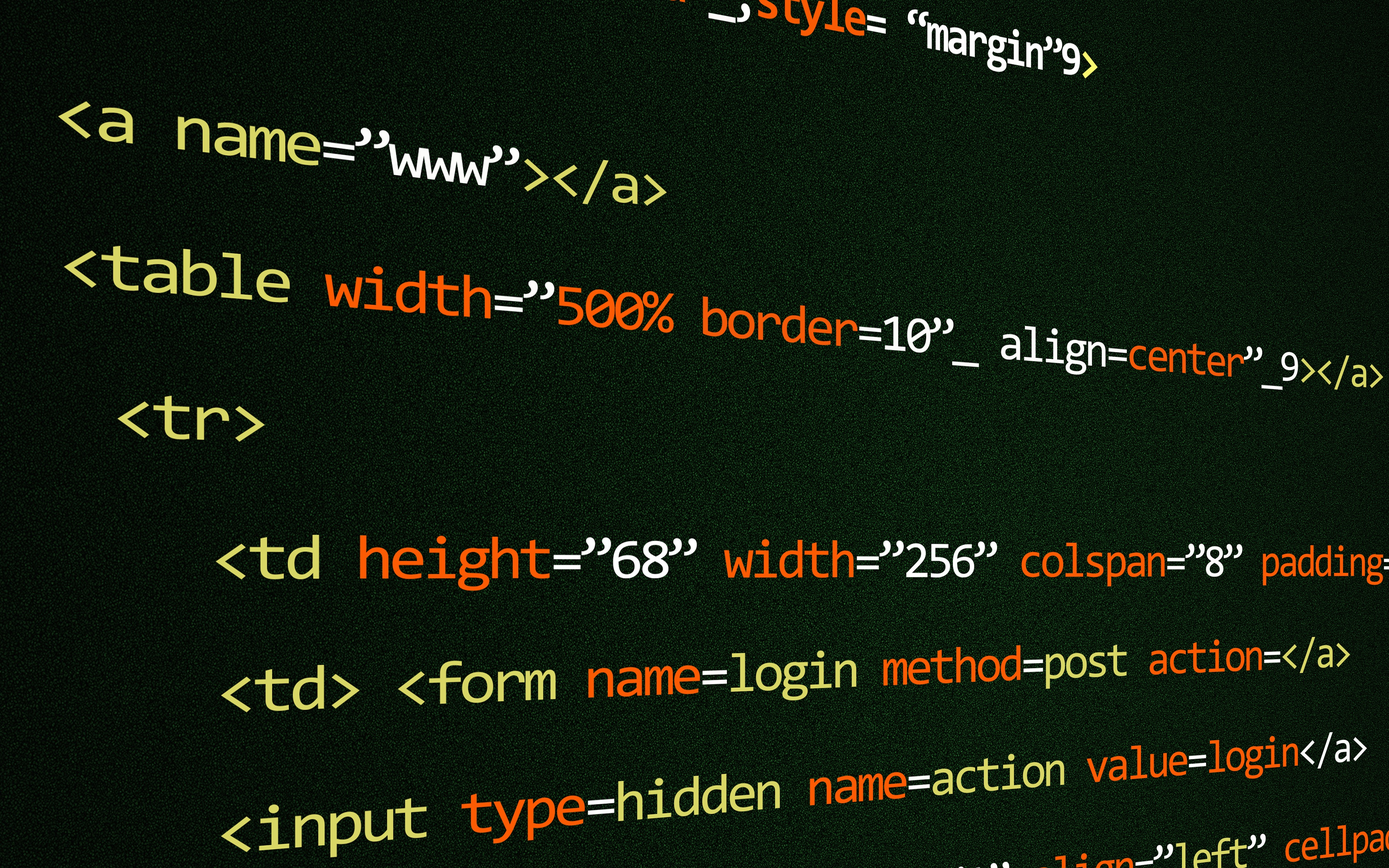
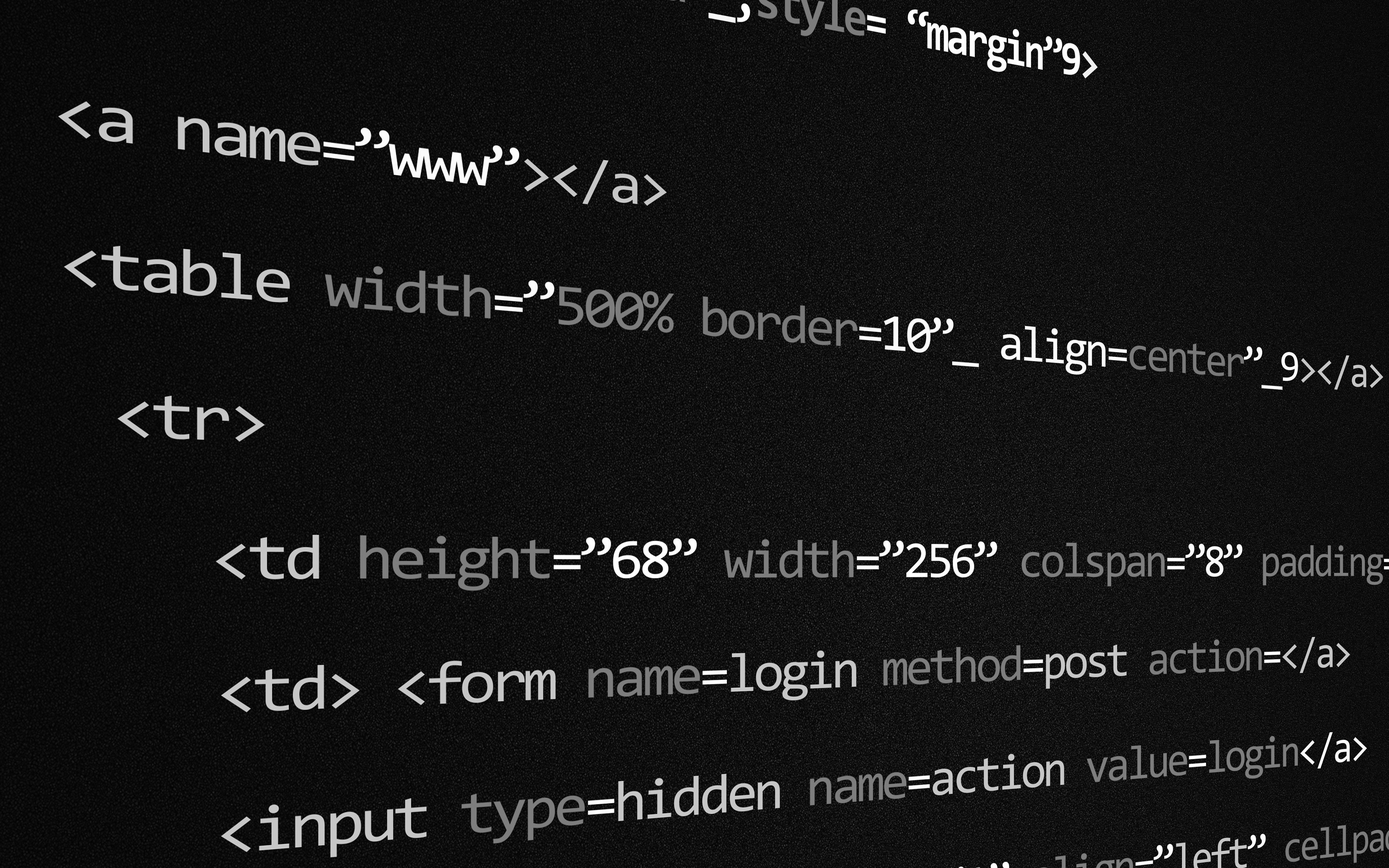
update

diff --git a/public/themes/default/assets/js/home.js b/public/themes/default/assets/js/home.js
@@ -1,44 +1,61 @@
 $(document).ready(function(){
+    var counter = 0;
+//tooltip
+    $('[data-toggle="tooltip"]').tooltip();
+//wowjs
     new WOW().init();
+//slick
     $('.project-img-modal').slick();
+//progress bar color
     $(function() {
         $(".prg-color").addClass("progress-bar-black");
     });
+//progress bar animation
 
-    increment_prg(".prg1");
-    increment_prg(".prg2");
-    increment_prg(".prg3");
-    increment_prg(".prg4");
-    increment_prg(".prg5");
-    increment_prg(".prg6");
-    increment_prg(".prg7");
-    increment_prg(".prg8");
 
-    animate(".prg1","85%");
-    animate(".prg2","86%");
-    animate(".prg3","84%");
-    animate(".prg4","75%");
-    animate(".prg5","64%");
-    animate(".prg6","64%");
-    animate(".prg7","65%");
-    animate(".prg8","89%");
+    $('.progress-bar-container').hide()
+    $(".show-skills").click(function(){
+        var test = $(this).find("a").attr("data-id");
+        if ($(this).offset().top = 1000) {
+            if(counter == 0){
+            counter = 1;
+            $('.skills-bulb').fadeOut();
+            increment_prg(".prg1");
+            increment_prg(".prg2");
+            increment_prg(".prg3");
+            increment_prg(".prg4");
+            increment_prg(".prg5");
+            increment_prg(".prg6");
+            increment_prg(".prg7");
+            increment_prg(".prg8");
 
-    function increment_prg(s){
-        var timer = setTimeout(function(){
-            increment_prg(s)
-    }, 30);
-    $(s).text(parseInt($(s).text())+1 +'%');
-    if($(s).text() == $(s).data('per')+'%'){
-            clearTimeout(timer);
+            animate(".prg1","85%");
+            animate(".prg2","86%");
+            animate(".prg3","84%");
+            animate(".prg4","75%");
+            animate(".prg5","64%");
+            animate(".prg6","64%");
+            animate(".prg7","65%");
+            animate(".prg8","89%");
+            function animate(p,r){
+                $(p).animate({
+                    width: r
+                }, 2000);
+            };
+                $('.progress-bar-container').fadeIn();
+                function increment_prg(s){
+                    var timer = setTimeout(function(){
+                        increment_prg(s)
+                    }, 30);
+                    $(s).text(parseInt($(s).text())+1 +'%');
+                    if($(s).text() == $(s).data('per')+'%'){
+                        clearTimeout(timer);
+                    }
+                }
+            }
         }
-    };
-
-    function animate(p,r){
-        $(p).animate({
-            width: r
-        }, 2000);
-    };
-
+    });
+//nav bar
     $(".navbar ul li").click(function(){
         var test = $(this).find("a").attr("data-id");
         $('html, body').animate({
@@ -48,4 +65,18 @@ $(document).ready(function(){
         $(".navbar ul li").removeClass();
         $(this).addClass("active");
     });
+//scroll top button
+    $('.scroll-top').hide()
+    $(window).scroll(function() {
+        if ($(this).scrollTop() > 400) {
+            $('.scroll-top').fadeIn();
+        } else {
+            $('.scroll-top').fadeOut();
+        }
+    });
+    $("a[href='#page-top']").click(function() {
+        $("html, body").animate({ scrollTop: 0 }, "slow");
+        return false;
+    });
+
 });

diff --git a/public/themes/default/assets/css/portfolio.css b/public/themes/default/assets/css/portfolio.css
@@ -63,26 +63,6 @@ a {
     from, to { border-color: transparent }
     30% { border-color: #f5f5f5; }
 }
-/*.typewriter h4 {*/
-    /*overflow: hidden; *//* Ensures the content is not revealed until the animation */
-    /*border-right: .05em solid #f5f5f5; *//* The typwriter cursor */
-    /*white-space: nowrap; *//* Keeps the content on a single line */
-    /*margin: 0 auto; *//* Gives that scrolling effect as the typing happens */
-    /*letter-spacing: 1px; *//* Adjust as needed */
-    /*animation:*/
-        /*typingh4 5s steps(30) 2s 1 normal both,*/
-        /*blink-careth4 500ms steps(44) infinite normal;*/
-/*}*/
-/* The typing effect */
-/*@keyframes typingh4 {*/
-    /*from { width: 0 }*/
-    /*to { width: 50% }*/
-/*}*/
-/* The typewriter cursor effect */
-/*@keyframes blink-careth4 {*/
-    /*from, to { border-color: transparent }*/
-    /*30% { border-color: #f5f5f5; }*/
-/*}*/
 .home-text p{
     font-size: 150px;
     margin: 0 auto;
@@ -105,10 +85,13 @@ a {
     left: 0;
     z-index: 999 !important;
 }
+.navbar-brand {
+    color: #EEEEEE !important;
+}
 .navbar-default .nav li a {
     font-size: 14px;
     font-weight: 800;
-    color: #d7ebf6;
+    color: #EEEEEE;
     transition: all 0.2s ease-in;
 }
 .navbar-default .nav li a:hover {
@@ -161,7 +144,7 @@ a {
     color: white;
 }
 .skills-blur {
-    background-image: url(../img/code.jpeg);
+    background-image: url(../../../../img/code.jpeg);
     background-repeat: no-repeat;
     background-size: 100% 100%;
     filter: blur(3px);
@@ -172,7 +155,7 @@ a {
 }
 #skills .img-overlay {
     position: absolute;
-    background: rgba(0, 0, 0, 0.75);
+    background: rgba(0, 0, 0, 0.60);
     top: 0;
     left: 0;
     width: 100%;
@@ -214,6 +197,28 @@ a {
     line-height: 12px !important;
     font-size: 10px !important;
 }
+.skills-bulb {
+    display: flex;
+    align-items: center;
+}
+.bulb-container{
+    margin: 0 auto;
+}
+.skills-bulb p{
+    font-size: 50px;
+    margin: 15px 0 0px 0;
+    color: white;
+    -webkit-animation: bounce 2s infinite ease-in-out;
+}
+@-webkit-keyframes bounce {
+    0%, 20%, 60%, 100%  { -webkit-transform: translateY(0); }
+    40%  { -webkit-transform: translateY(-20px); }
+    80% { -webkit-transform: translateY(-10px); }
+}
+.skills-bulb p:hover {
+    -webkit-animation-play-state: paused;
+}
+
 /*EXPERIENCE CSS*/
 .img-container {
     position: relative;
@@ -393,7 +398,7 @@ a {
     position: relative;
 }
 .transparent-line {
-    background-color: #FFF;
+    background-color: #007ac1;
     height: 1px;
     width: 100%;
     opacity: 0.2;
@@ -424,4 +429,20 @@ a {
     color: white;
     text-align: center;
     margin: 0 0 20px 0;
+}
+.scroll-top {
+    position: fixed;
+    display: none;
+    z-index: 999;
+    bottom: 20px;
+    right: 20px;
+}
+.scroll-top a{
+    display: block;
+    font-size: 15px;
+    text-align: center;
+    background-color: #007ac1;
+    color: #FFFFFF;
+    border-radius: 2px;
+    padding: 5px 7px;
 }

diff --git a/resources/views/portfolio.blade.php b/resources/views/portfolio.blade.php
@@ -24,12 +24,12 @@
                     <span class = "icon-bar"></span>
                     <span class = "icon-bar"></span>
                 </button>
-                <a class = "navbar-brand" href = "#">FAGGOT!</a>
+                <a class ="navbar-brand" href = "#">FAGGOT!</a>
             </div>
             <div class="collapse navbar-collapse" id="myNavbar">
             <ul id="nav-id" class="nav navbar-nav navbar-right">
                 <li class="active"><a data-id="#about" href = "javascript:void(0)">ABOUT</a></li>
-                <li><a data-id="#skills" href="javascript:void(0)">SKILLS</a></li>
+                <li class="show-skills"><a data-id="#skills" href="javascript:void(0)">SKILLS</a></li>
                 <li><a data-id="#experience" href = "javascript:void(0)">EXPERIENCE</a></li>
                 <li><a data-id="#projects" href = "javascript:void(0)">PROJECTS</a></li>
             </ul>
@@ -80,11 +80,18 @@
         <div class="img-overlay">
         </div>
         <div class="row">
-            <div class="col-md-12">
-                <h1 class="section-title">Skills.</h1>
+            <div class="col-md-11">
+                <h1 class="section-title" >Skills.</h1>
+            </div>
+            <div class="col-md-1 skills-bulb" data-toggle="tooltip" title="Click Me!">
+                <div class="bulb-container show-skills">
+                    <a href="#show-skills">
+                        <p class="fa fa-lightbulb-o"></p>
+                    </a>
+                </div>
             </div>
         </div>
-        <div class="row">
+        <div class="row row-margin">
             <div class="col-md-3 wow flipInX">
                 <div class="skills-container">
                     <img src="{{url('/img/php.svg') }}" />
@@ -379,8 +386,8 @@
                         <div class="row">
                             <div class="col-md-4">
                                 <div class="project-img-modal">
-                                    <div><img src="{{url('/img/hrms1.png') }}"></div>
                                     <div><img src="{{url('/img/hrms2.png') }}"></div>
+                                    <div><img src="{{url('/img/hrms1.png') }}"></div>
                                     <div><img src="{{url('/img/hrms3.png') }}"></div>
                                 </div>
                             </div>
@@ -427,7 +434,9 @@
                         <div class="row">
                             <div class="col-md-4">
                                 <div class="project-img-modal">
-                                    <img src="{{url('/img/no-image-available.png') }}" class="project-img-content">
+                                    <div><img src="{{url('/img/lc2.png') }}"></div>
+                                    <div><img src="{{url('/img/lc1.png') }}"></div>
+                                    <div><img src="{{url('/img/lc3.png') }}"></div>
                                 </div>
                             </div>
                             <div class="col-md-8">
@@ -473,7 +482,9 @@
                         <div class="row">
                             <div class="col-md-4">
                                 <div class="project-img-modal">
-                                    <img src="{{url('/img/no-image-available.png') }}" class="project-img-content">
+                                    <div><img src="{{url('/img/fonebayad2.png') }}"></div>
+                                    <div><img src="{{url('/img/fonebayad1.png') }}"></div>
+                                    <div><img src="{{url('/img/fonebayad3.png') }}"></div>
                                 </div>
                             </div>
                             <div class="col-md-8">
@@ -538,3 +549,6 @@
         </div>
     </div>
 </section>
+<div class="scroll-top">
+    <a class="page-scroll" href="#page-top"><span class="fa fa-chevron-up"></span></a>
+</div>

diff --git a/public/themes/default/layouts/default.blade.php b/public/themes/default/layouts/default.blade.php
@@ -1,7 +1,7 @@
 <!DOCTYPE html>
 <html xmlns="http://www.w3.org/1999/html" xmlns="http://www.w3.org/1999/html">
     <head>
-        <title>{!! Theme::get('title') !!}JOMEL</title>
+        <title>Jomel Marty G. Guiao</title>
         <meta charset="utf-8">
         <meta name="keywords" content="{!! Theme::get('keywords') !!}">
         <meta name="description" content="{!! Theme::get('description') !!}">
